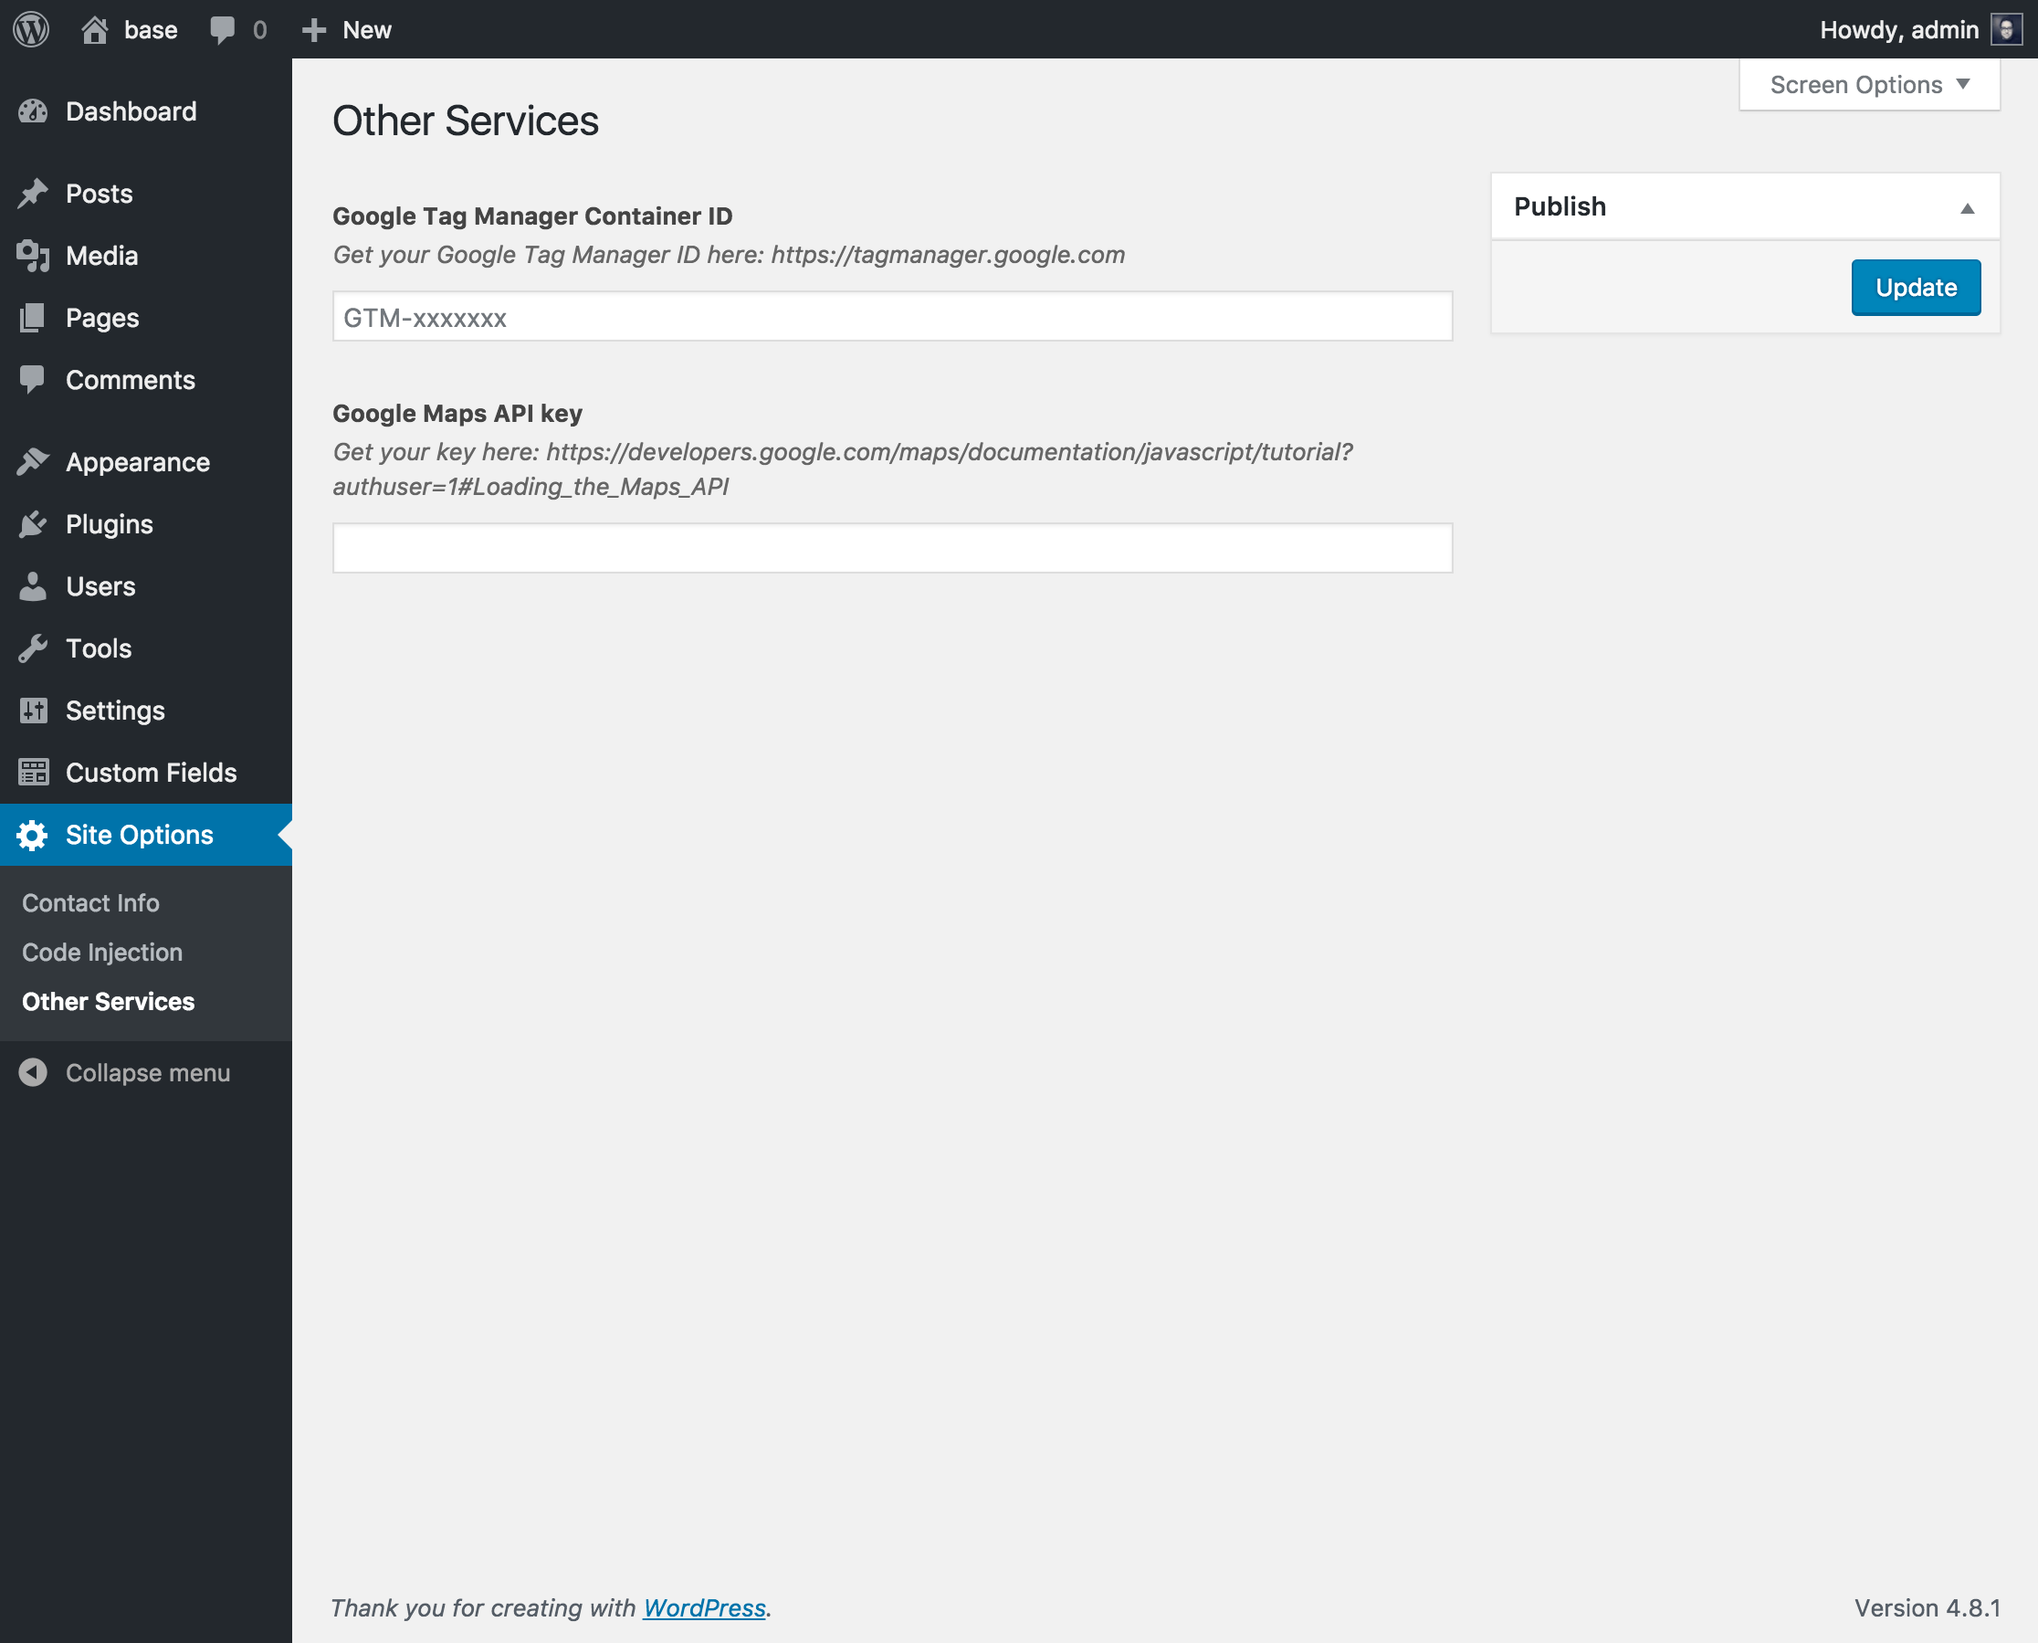
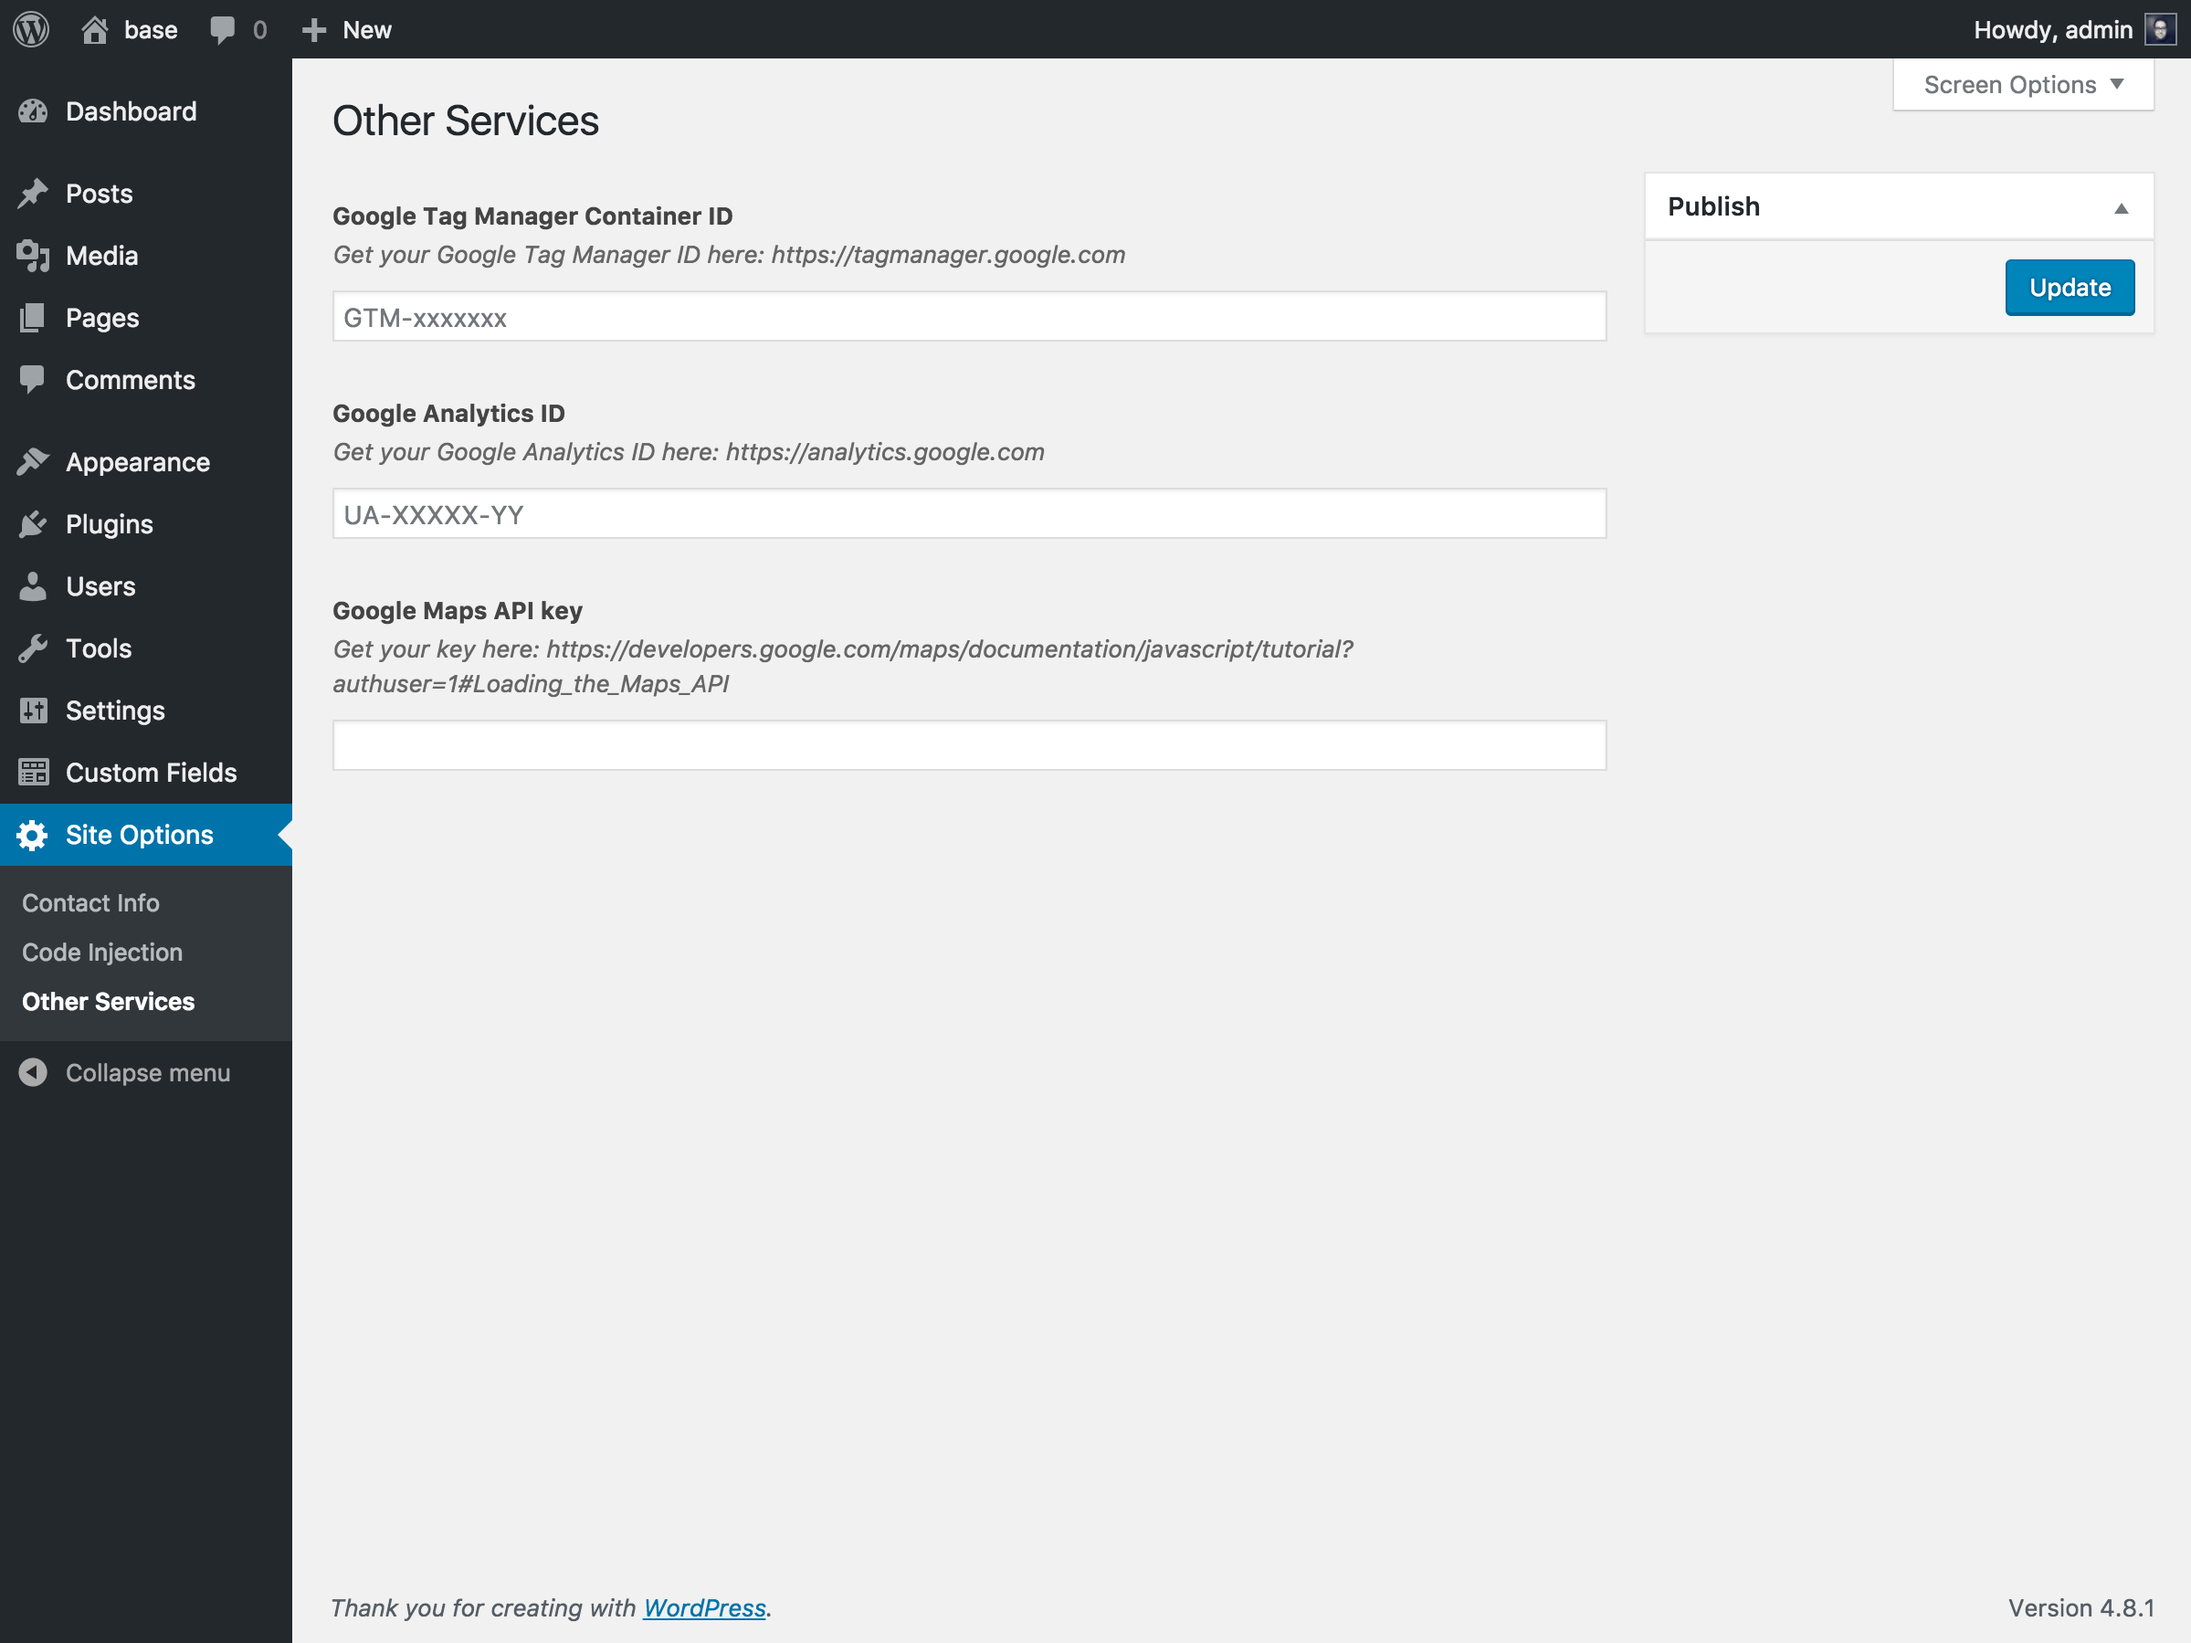
Update to include GA ID to prevent from breaking older versions

diff --git a/acf-common-site-options.php b/acf-common-site-options.php
@@ -5,7 +5,7 @@
  * Description: A small options page add-on for Advanced Custom Fields, ready to for development on any theme.
  * Author: Marty Thierry
  * Author URI: https://martylouis.com
- * Version: 1.2.0
+ * Version: 1.2.1
  * License: GPLv2
  * GitHub Plugin URI: https://github.com/martylouis/acf-common-site-options
  */
@@ -19,7 +19,7 @@ if (!class_exists('acf_cso')) :
     function __construct() {
 
       $this->settings = [
-        'version'           => '1.2.0',
+        'version'           => '1.2.1',
         'name'              => 'ACF Common Site Options',
         'basename'          => dirname(plugin_basename(__FILE__)),
         'url'               => plugin_dir_url(__FILE__)

diff --git a/README.md b/README.md
@@ -49,6 +49,7 @@ Read more about the Options Page [here](https://www.advancedcustomfields.com/add
 |Label | Name | Field Type |
 |---|---|---|
 | Google Tag Manager Container ID | `cso_gtm_id` | text |
+| Google Analytics ID | `cso_google_analytics_id` | text |
 | Google Maps API key | `cso_google_maps_api_key` | text |
 
 ![Other Services Screenshot][other_services]
